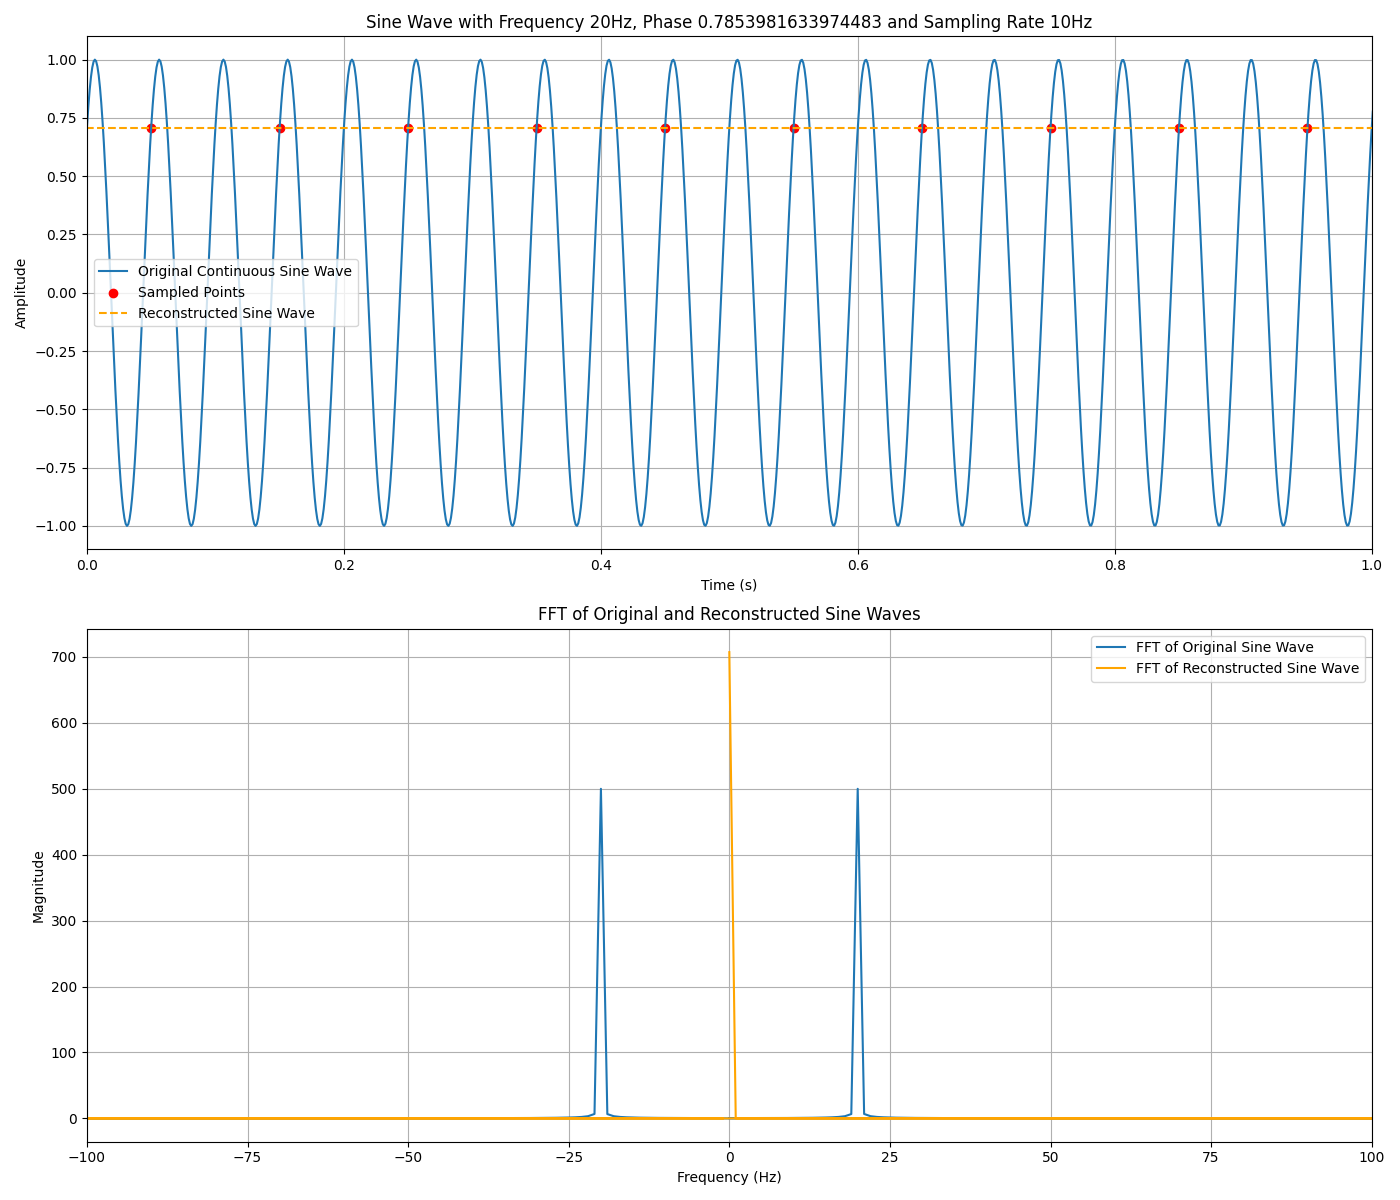
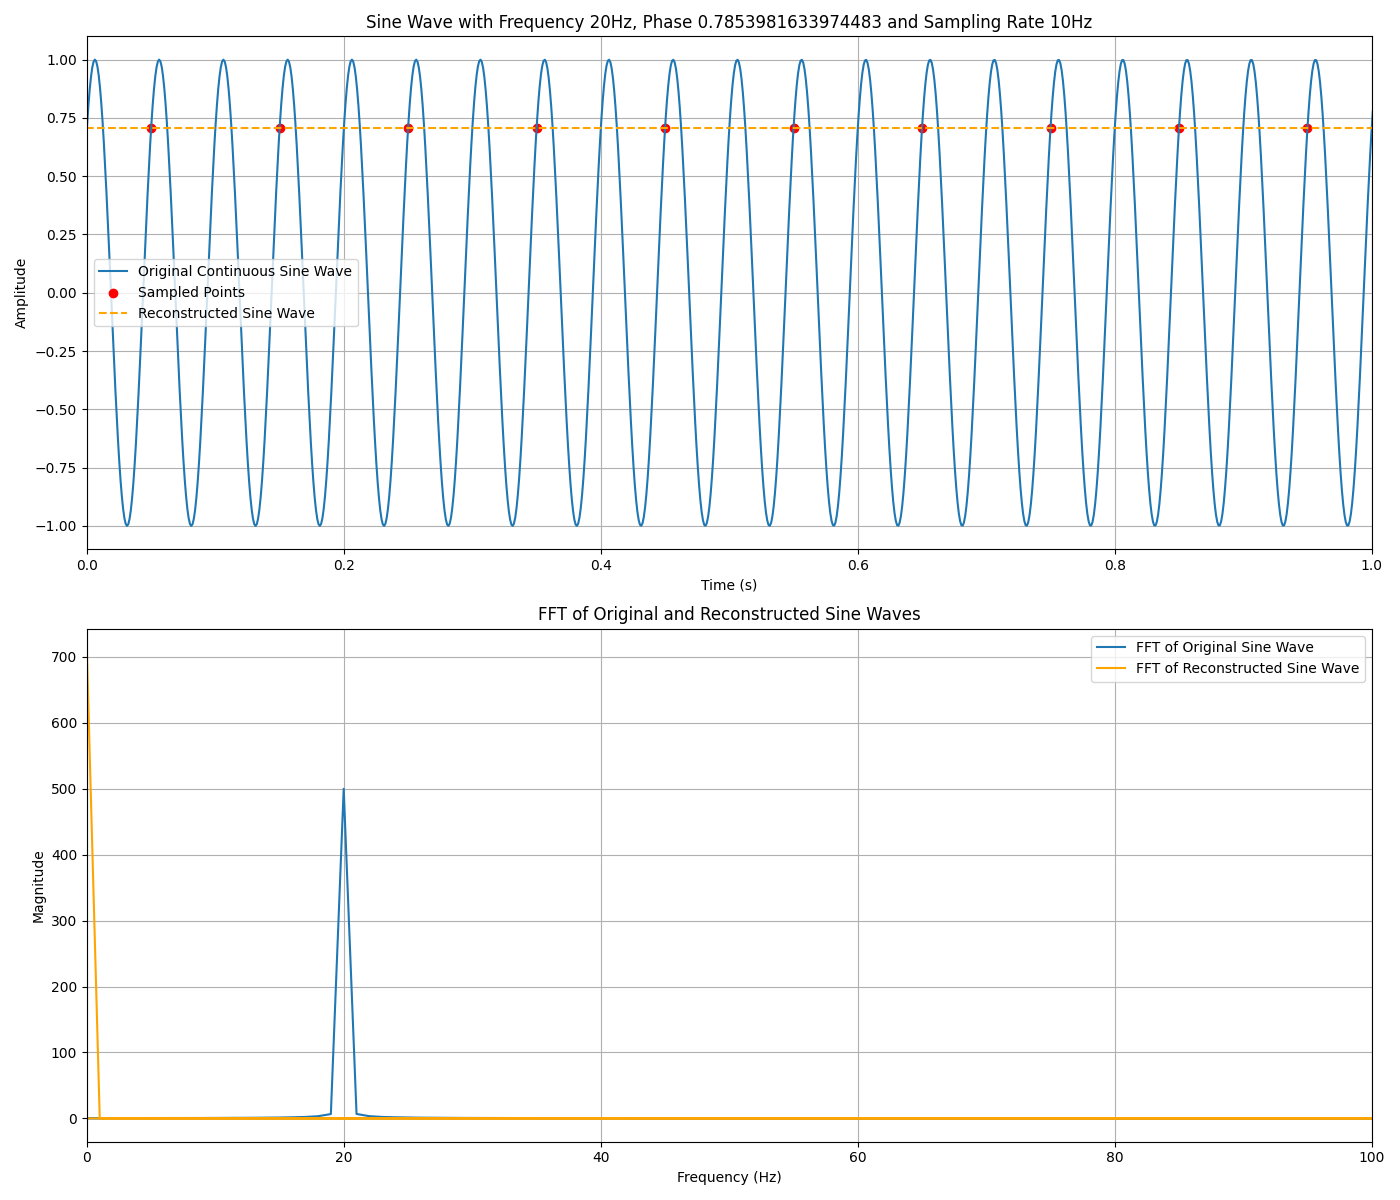
crops the negative portion of the fft plot

Changed region(s): [[0.3993, 0.6783, 0.43, 0.925], [0.5836, 0.6783, 0.6143, 0.8017]]

diff --git a/sampling-theorem.py b/sampling-theorem.py
@@ -74,7 +74,7 @@ for sampling_rate in sampling_rates:
     # Plot the FFTs of both waves
     axs[1].plot(freq_axis, np.abs(fft_continuous), label='FFT of Original Sine Wave')
     axs[1].plot(freq_axis, np.abs(fft_reconstructed), label='FFT of Reconstructed Sine Wave', color='orange')
-    axs[1].set_xlim([-100, 100])  # Crop the FFT plot to -100 Hz to 100 Hz
+    axs[1].set_xlim([0, 100])  # Crop the FFT plot to -100 Hz to 100 Hz
     axs[1].set_title('FFT of Original and Reconstructed Sine Waves')
     axs[1].set_xlabel('Frequency (Hz)')
     axs[1].set_ylabel('Magnitude')
@@ -94,7 +94,10 @@ with open(readme_path, 'r') as f:
     readme_content = f.readlines()
 
 # Find the position of the first '---'
-insert_idx = readme_content.index('---') + 1
+insert_idx = readme_content.index('---\n') + 1
+
+# Remove everything after the first '---'
+readme_content = readme_content[:insert_idx]
 
 # Add new lines for each sampling rate
 for sampling_rate in sampling_rates:
@@ -103,8 +106,7 @@ for sampling_rate in sampling_rates:
         f'\n\n![Amostragem em {sampling_rate}Hz](imgs/plot_{sampling_rate}.png)',
         '\n\n---'
     ]
-    readme_content[insert_idx:insert_idx] = new_lines
-    insert_idx += len(new_lines)
+    readme_content.extend(new_lines)
 
 # Write the updated content back to README.md
 with open(readme_path, 'w') as f:

diff --git a/README.md b/README.md
@@ -26,83 +26,6 @@ Para todos os gráficos abaixo foi usada como sinal original uma senoide com fre
 
 ---
 
-#### Amostragem em 8Hz
-
-![Amostragem em 8Hz](imgs/plot_8.png)
-
----
-
-#### Amostragem em 10Hz
-
-![Amostragem em 10Hz](imgs/plot_10.png)
-
----
-
-#### Amostragem em 12Hz
-
-![Amostragem em 12Hz](imgs/plot_12.png)
-
----
-
-#### Amostragem em 14Hz
-
-![Amostragem em 14Hz](imgs/plot_14.png)
-
----
-
-#### Amostragem em 16Hz
-
-![Amostragem em 16Hz](imgs/plot_16.png)
-
----
-
-#### Amostragem em 20Hz
-
-![Amostragem em 20Hz](imgs/plot_20.png)
-
----
-
-#### Amostragem em 40Hz
-
-![Amostragem em 40Hz](imgs/plot_40.png)
-
----
-
-#### Amostragem em 42Hz
-
-![Amostragem em 42Hz](imgs/plot_42.png)
-
----
-
-#### Amostragem em 53Hz
-
-![Amostragem em 53Hz](imgs/plot_53.png)
-
----
-
-#### Amostragem em 61Hz
-
-![Amostragem em 61Hz](imgs/plot_61.png)
-
----
-
-#### Amostragem em 74Hz
-
-![Amostragem em 74Hz](imgs/plot_74.png)
-
----
-
-#### Amostragem em 80Hz
-
-![Amostragem em 80Hz](imgs/plot_80.png)
-
----
-
-#### Amostragem em 100Hz
-
-![Amostragem em 100Hz](imgs/plot_100.png)
-
----
 
 #### Amostragem em 8Hz
 
